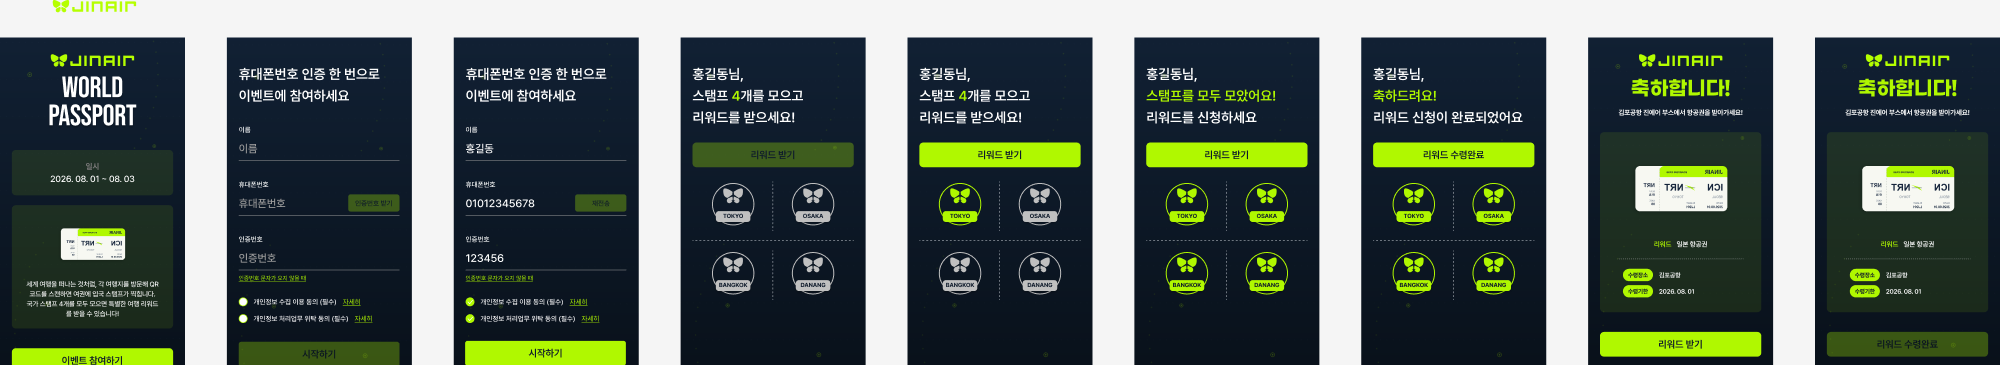
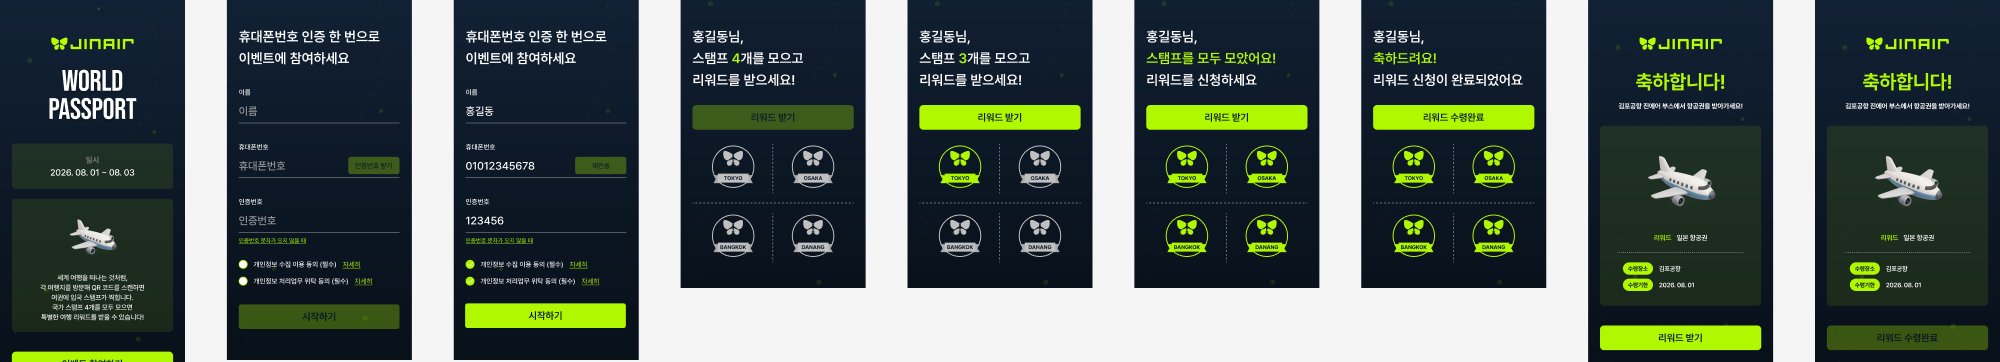
vault backup: 2026-07-01 11:04:27

diff --git a/큐알스탬프 솔루션/5. 참조 페이지/5. WORLD PASSPORT (JINAIR).md b/큐알스탬프 솔루션/5. 참조 페이지/5. WORLD PASSPORT (JINAIR).md
@@ -72,9 +72,10 @@ tags:
 ## 3⃣ 스탬프 (Stamp) — 여권 입국 스탬프 컨셉
 - **2열 × 2행 = 4칸** · 헤더 3줄 고정("홍길동님, / 스탬프 4개를 모으고 / 리워드를 받으세요!").
 - **칸 디자인 = ④ 이미지+하단라벨** (매번 커스텀 4유형 중 사용자 선택):
-  - 링(원형 입국도장 테두리) + **JINAIR 나비/비행기 심볼** + 하단 **도시 라벨 배너**.
+  - 링(원형 입국도장 테두리) + **JINAIR 나비/비행기 심볼** + 하단 **`리본 라벨` 컴포넌트**(`6339:4`) 복제·**라임 리컬러**(유형④ 디테일 규칙 §2-6 준수) + 도시명(다크 텍스트).
   - 도시(목적지) = **TOKYO · OSAKA · BANGKOK · DANANG** (JINAIR 인기 노선).
   - 적립 후(active)=라임 / 적립 전(inactive)=그레이 · 레이아웃 동일.
+- **디테일 규칙(§2-6)**: 후보 보드 기준 ①텍스트만=그런지 질감(`stamp-grunge-navy.png`) · ②이미지+텍스트=장식 점 · ③이미지만=면 drop shadow · ④=`리본 라벨` 배너(채택).
 - 전용 컴포넌트 세트 **`stamp-WORLDPASSPORT`**(`6403:402` · active `6403:400` / inactive `6403:401`) — **공용 stamp 마스터(`6189:13747`)는 미수정**.
 - 상태: Default(0/4) → 1/n(TOKYO 적립) → n/n(4/4) → RewardDone.
 
@@ -87,7 +88,7 @@ tags:
 
 ## 🏷 스탬프 4유형 후보 (페이지 보관 · 삭제금지)
 
-> 워크플로우 규칙대로 4유형 후보 보드를 같은 페이지에 보관 (`6402:390`). 채택 = **④**.
+> 워크플로우 규칙대로 4유형 후보 보드를 같은 페이지에 보관 (`6457:172`). 채택 = **④** · **디테일 규칙(그런지·장식·섀도·리본라벨) 적용본**.
 
 ![[큐알스탬프 솔루션/attachments/worldpassport-stamp-types.png]]
 
@@ -100,6 +101,7 @@ tags:
 | `jinair-logo.png` | JINAIR 라임 로고(투명·트림) — 시작/리워드 상단 |
 | `jinair-bfly-lime/white/gray.png` | 나비/비행기 심볼(스탬프 모티프, 3색) |
 | `worldpassport-bg.png` | 다크 트래블 배경(점선 비행경로·목적지 닷) |
+| `stamp-grunge-navy.png` | 스탬프 유형① 그런지(worn-ink) 질감 오버레이 |
 | `reward-airplane-jinair.png` | 리워드 이미지 — **thiings 3D 비행기 아이콘**(투명·트림) |
 | `worldpassport-overview.png` / `worldpassport-stamp-types.png` | 본 문서 임베드용 |
 
